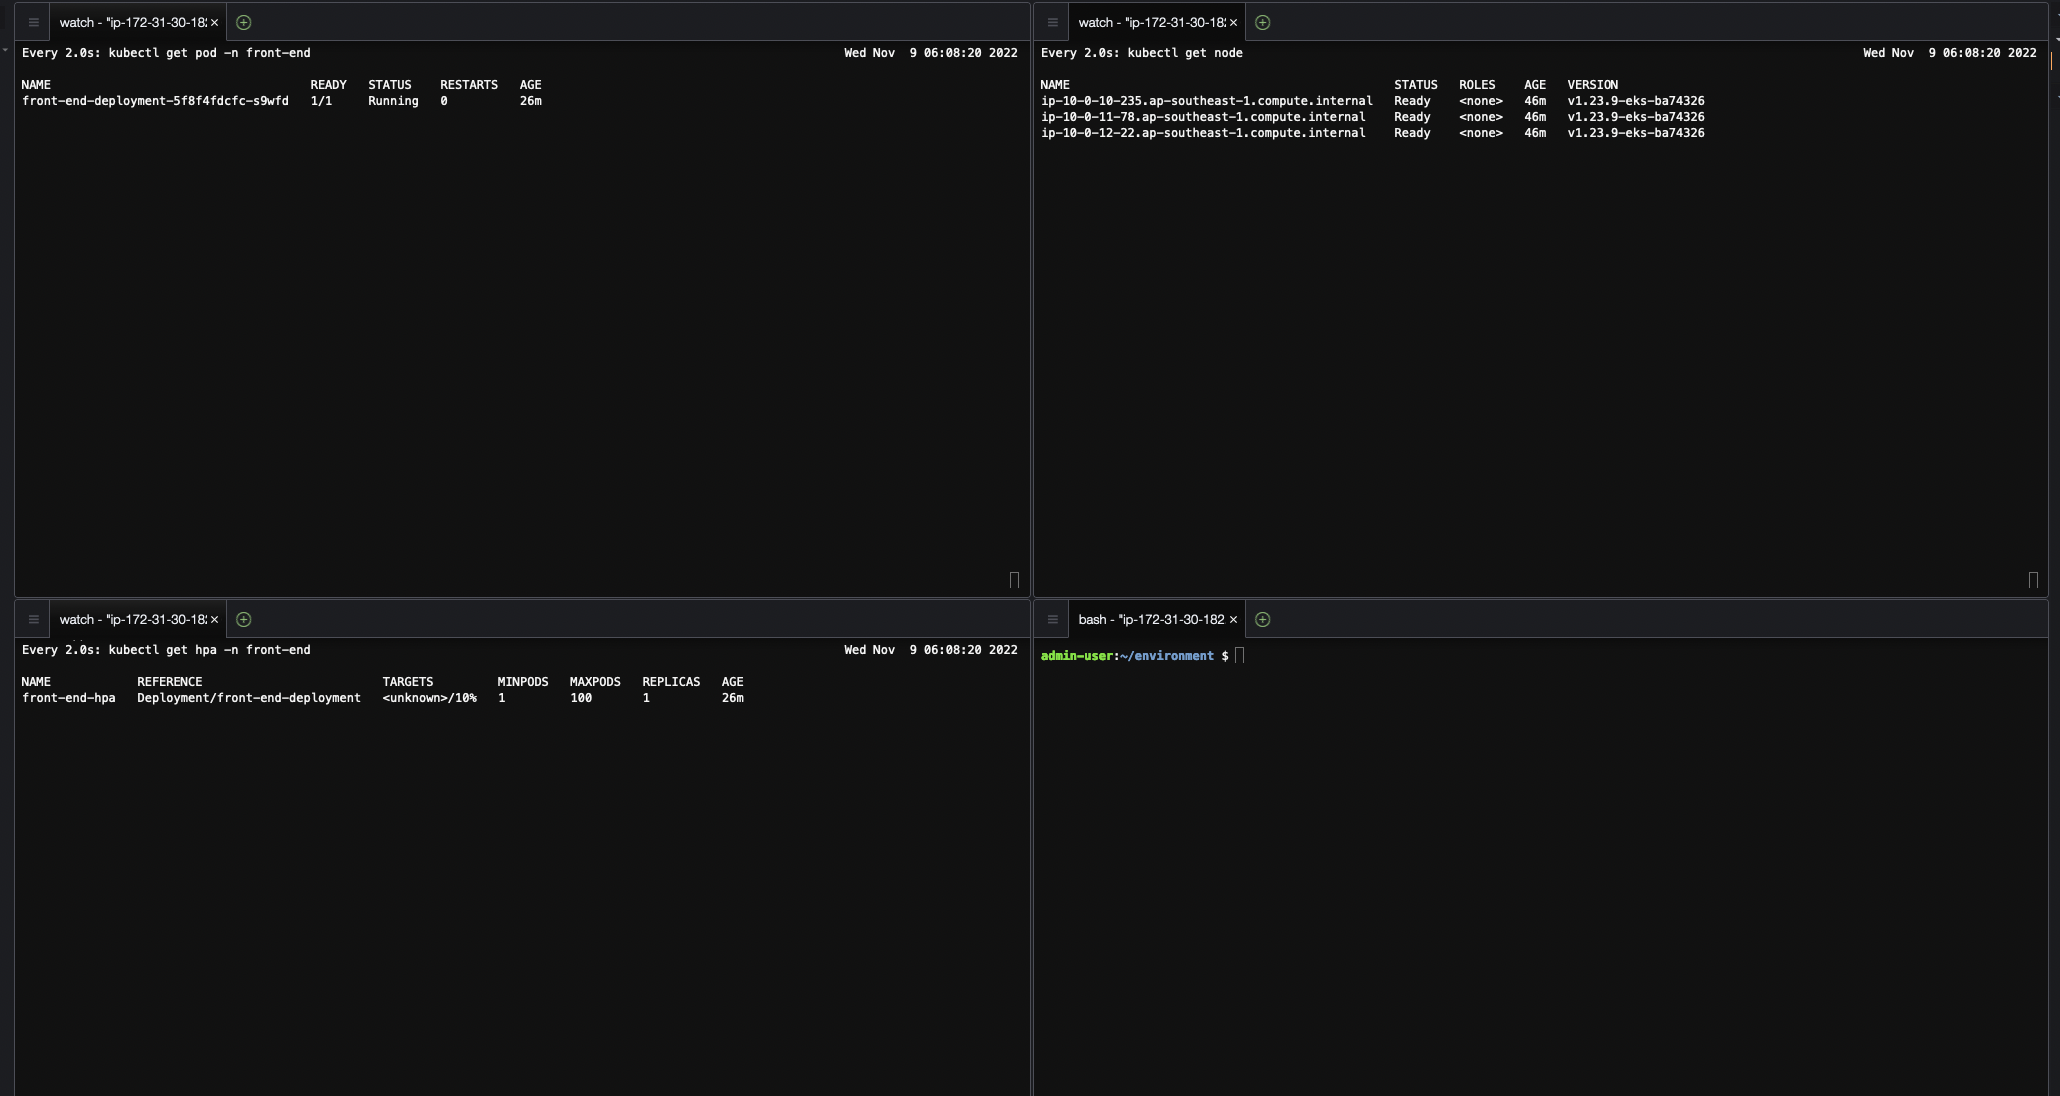
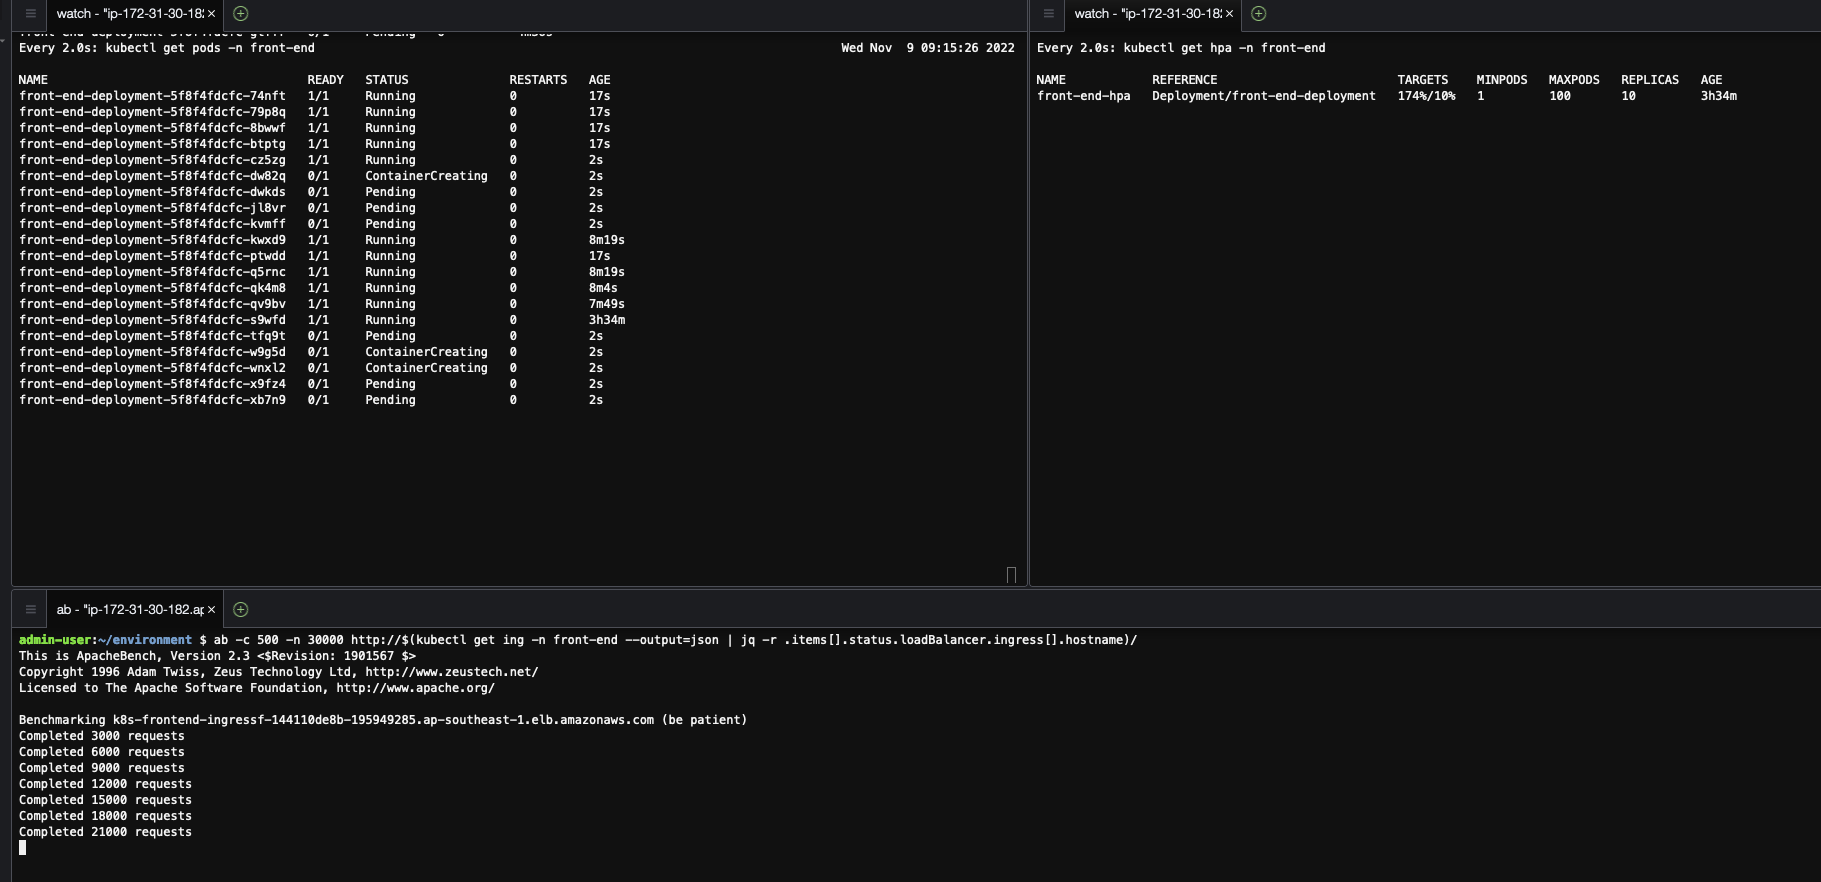
integrate kapenter

diff --git a/README.md b/README.md
@@ -177,20 +177,6 @@ spec:
             requests:
               cpu: 250m
 ---
-apiVersion: autoscaling/v1
-kind: HorizontalPodAutoscaler
-metadata:
-  name: front-end-hpa
-  namespace: front-end
-spec:
-  scaleTargetRef:
-    apiVersion: apps/v1
-    kind: Deployment
-    name: front-end-deployment
-  minReplicas: 1 
-  maxReplicas: 100
-  targetCPUUtilizationPercentage: 10 # define the replicas range and the scaling policy for the deployment
----
 apiVersion: v1
 kind: Service
 metadata:
@@ -208,7 +194,8 @@ spec:
   type: NodePort # expose the service as NodePort type so that ALB can use it later.
 EOF
 ```
-通过以下命令创建`front-end`命名空间、`front-hpa`HPA、`front-end-service`服务。 
+通过以下命令创建`front-end`命名空间、`front-end`部署以及`front-end-service`服务
+
 ```bash
 kubectl apply -f deploy.yaml
 ```
@@ -284,32 +271,59 @@ echo "http://$(kubectl get ing -n front-end --output=json | jq -r .items[].statu
 
 # 体验EKS的自动扩展功能
 ### Pod的自动扩展
-现在回到Cloud9工作区，我们通过watch命令监控pod、hpa以及node的变化。为了观测pod的变化以及node的变化，我们在一个Cloud9页面打开4个命令终端，分别输入一下命令：
+为了让HPA获取到Pod的指标实现自动扩容的目的，我们必须首先安装metrics server
+```bash
+kubectl apply -f https://github.com/kubernetes-sigs/metrics-server/releases/latest/download/components.yaml
+```
+
+然后部署HPA
+```bash
+cat > front-end-hpa.yaml <<EOF
+apiVersion: autoscaling/v1
+kind: HorizontalPodAutoscaler
+metadata:
+  name: front-end-hpa
+  namespace: front-end
+spec:
+  scaleTargetRef:
+    apiVersion: apps/v1
+    kind: Deployment
+    name: front-end-deployment
+  minReplicas: 1 
+  maxReplicas: 100
+  targetCPUUtilizationPercentage: 10 # define the replicas range and the scaling policy for the deployment
+EOF
+```
+
+```bash
+kubectl apply -f front-end-hpa.yaml
+```
+
+为了观测pod的变化以及hpa的变化，我们在一个Cloud9页面打开3个命令终端，分别输入一下命令：
 
 1. 监控Pod的数量变化
 ```bash
 watch kubectl get pods -n front-end
 ```
 
-2. 监控Node的数量变化
-```bash
-watch kubectl get node
-```
-
-3. 监控HPA
+2. 监控HPA
 ```bash
 watch kubectl get hpa -n front-end
 ```
 
-4. 执行压力测试
+3. 执行压力测试
 ```bash
 ab -c 500 -n 30000 http://$(kubectl get ing -n front-end --output=json | jq -r .items[].status.loadBalancer.ingress[].hostname)/
 ```
+
+可以看出随着流量的增加，HPA的指标也在变化，随着CPU利用率的增加
+
 ![alt text](terminals.png "Title")
 
-
-
 ### 安装Cluster Auto Scaler
+
+
+
 
 
 
